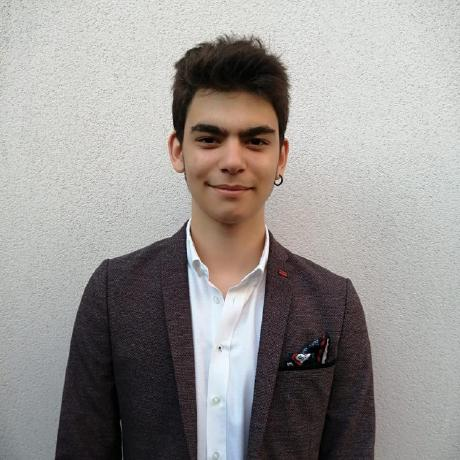
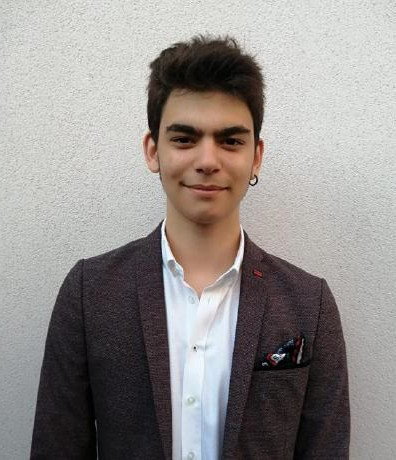
Text changes on html files

diff --git a/website/templates/index.html b/website/templates/index.html
@@ -222,7 +222,7 @@
           <div class="col-lg-3 col-md-4 col-xs-6 mb-lg-15 mb-13">
             <div class="team-card">
               <div class="card-image">
-                <img src="{{ url_for('static', filename='image/inner/team-image-1.png') }}" alt="" class="w-100">
+                <img src="{{ url_for('static', filename='image/arda.jpeg') }}" alt="" class="w-100">
               </div>
               <div class="card-text pt-9">
                 <h3 class="gr-text-7 mb-2">Arda Uzunoğlu</h3>
@@ -233,7 +233,7 @@
           <div class="col-lg-3 col-md-4 col-xs-6 mb-lg-15 mb-13">
             <div class="team-card">
               <div class="card-image">
-                <img src="{{ url_for('static', filename='image/inner/team-image-2.png') }}" alt="" class="w-100">
+                <img src="{{ url_for('static', filename='image/ege.jpeg') }}" alt="" class="w-100">
               </div>
               <div class="card-text pt-9">
                 <h3 class="gr-text-7 mb-2">Ege Dinnen</h3>
@@ -294,7 +294,7 @@
             <div class="single-footer mb-13 mb-lg-9">
               <p class="footer-title gr-text-11 mb-7">Sanatkar.ai</p>
               <ul class="footer-list list-unstyled">
-                <li class="py-2"><a class="gr-text-9 gr-text-color" href="/generator">Şiir Oluşturun</a></li>
+                <li class="py-2"><a class="gr-text-9 gr-text-color" href="/generator">Eser Oluşturun</a></li>
                 <li class="py-2"><a class="gr-text-9 gr-text-color" href="/archive">Arşiv</a></li>
                 <li class="py-2"><a class="gr-text-9 gr-text-color" href="https://github.com/ardauzunoglu/sanatkar.ai">Dokümantasyon</a></li>
               </ul>

diff --git a/website/templates/archive.html b/website/templates/archive.html
@@ -65,7 +65,7 @@
           </div>
           <div class="header-btn  ml-auto ml-lg-5 mr-6 mr-lg-0 d-none d-xs-block">
             <a class="btn btn-app-page btn-primary gr-text-9 d-none d-xs-inline-flex " href="/generator">
-              Bir Şiir Oluşturun!
+              Bir Eser Oluşturun!
             </a>
           </div>
           <!-- Mobile Menu Hamburger-->
@@ -127,7 +127,7 @@
             <div class="single-footer mb-13 mb-lg-9">
               <p class="footer-title gr-text-11 mb-7">Sanatkar.ai</p>
               <ul class="footer-list list-unstyled">
-                <li class="py-2"><a class="gr-text-9 gr-text-color" href="/generator">Şiir Oluşturun</a></li>
+                <li class="py-2"><a class="gr-text-9 gr-text-color" href="/generator">Eser Oluşturun</a></li>
                 <li class="py-2"><a class="gr-text-9 gr-text-color" href="/archive">Arşiv</a></li>
                 <li class="py-2"><a class="gr-text-9 gr-text-color" href="https://github.com/ardauzunoglu/sanatkar.ai">Dokümantasyon</a></li>
               </ul>

diff --git a/website/templates/generator_output.html b/website/templates/generator_output.html
@@ -65,7 +65,7 @@
           </div>
           <div class="header-btn  ml-auto ml-lg-5 mr-6 mr-lg-0 d-none d-xs-block">
             <a class="btn btn-app-page btn-primary gr-text-9 d-none d-xs-inline-flex " href="/generator">
-              Bir Şiir Oluşturun!
+              Bir Eser Oluşturun!
             </a>
           </div>
           <!-- Mobile Menu Hamburger-->
@@ -135,7 +135,7 @@
             <div class="single-footer mb-13 mb-lg-9">
               <p class="footer-title gr-text-11 mb-7">Sanatkar.ai</p>
               <ul class="footer-list list-unstyled">
-                <li class="py-2"><a class="gr-text-9 gr-text-color" href="/generator">Şiir Oluşturun</a></li>
+                <li class="py-2"><a class="gr-text-9 gr-text-color" href="/generator">Eser Oluşturun</a></li>
                 <li class="py-2"><a class="gr-text-9 gr-text-color" href="/archive">Arşiv</a></li>
                 <li class="py-2"><a class="gr-text-9 gr-text-color" href="https://github.com/ardauzunoglu/sanatkar.ai">Dokümantasyon</a></li>
               </ul>

diff --git a/website/templates/contact.html b/website/templates/contact.html
@@ -162,7 +162,7 @@
             <div class="single-footer mb-13 mb-lg-9">
               <p class="footer-title gr-text-11 mb-7">Sanatkar.ai</p>
               <ul class="footer-list list-unstyled">
-                <li class="py-2"><a class="gr-text-9 gr-text-color" href="/generator">Şiir Oluşturun</a></li>
+                <li class="py-2"><a class="gr-text-9 gr-text-color" href="/generator">Eser Oluşturun</a></li>
                 <li class="py-2"><a class="gr-text-9 gr-text-color" href="/archive">Arşiv</a></li>
                 <li class="py-2"><a class="gr-text-9 gr-text-color" href="https://github.com/ardauzunoglu/sanatkar.ai">Dokümantasyon</a></li>
               </ul>

diff --git a/website/templates/generator.html b/website/templates/generator.html
@@ -162,7 +162,7 @@
             <div class="single-footer mb-13 mb-lg-9">
               <p class="footer-title gr-text-11 mb-7">Sanatkar.ai</p>
               <ul class="footer-list list-unstyled">
-                <li class="py-2"><a class="gr-text-9 gr-text-color" href="/generator">Şiir Oluşturun</a></li>
+                <li class="py-2"><a class="gr-text-9 gr-text-color" href="/generator">Eser Oluşturun</a></li>
                 <li class="py-2"><a class="gr-text-9 gr-text-color" href="/archive">Arşiv</a></li>
                 <li class="py-2"><a class="gr-text-9 gr-text-color" href="https://github.com/ardauzunoglu/sanatkar.ai">Dokümantasyon</a></li>
               </ul>

diff --git a/website/templates/about.html b/website/templates/about.html
@@ -113,7 +113,7 @@
                 "
                 href="/generator"
               >
-                Bir Şiir Oluşturun!
+                Bir Eser Oluşturun!
               </a>
             </div>
             <!-- Mobile Menu Hamburger-->
@@ -244,7 +244,7 @@
                   <ul class="footer-list list-unstyled">
                     <li class="py-2">
                       <a class="gr-text-9 gr-text-color" href="/generator"
-                        >Şiir Oluşturun</a
+                        >Eser Oluşturun</a
                       >
                     </li>
                     <li class="py-2">
